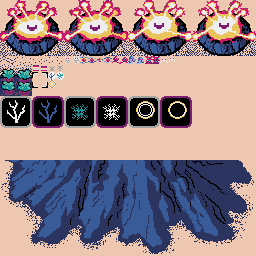
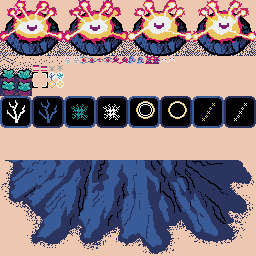
TD: implemented star weapon

Changed region(s): [[0.0, 0.375, 1.0, 0.5], [0.2188, 0.3125, 0.25, 0.3438]]

diff --git a/td/state/weapons.py b/td/state/weapons.py
@@ -6,10 +6,14 @@ from pyke_pyxel import Coord, log_debug, log_error
 from pyke_pyxel.cell_auto.matrix import Matrix
 from pyke_pyxel.signals import Signals
 from pyke_pyxel.sprite import Sprite
+from td.enemies.enemy import Enemy
 from td.weapons.bolt import Bolt
+from td.weapons.star import Star
 from td.weapons.fungus import Fungus
 from td.weapons.meteor import Meteor
 from td.weapons.weapon import Weapon
+
+from .enemies import GameEnemies
 
 class WeaponLocation:
     def __init__(self, id: str, position: Coord, orientation: str) -> None:
@@ -75,8 +79,10 @@ class GameWeapons:
 
         self.active: list[Weapon] = []
 
-    def cost_of(self, type: str) -> int:
+    def cost_of(self, type: str) -> float:
         match type:
+            case "star":
+                return 1
             case "bolt":
                 return 1
             case "fungus":
@@ -87,7 +93,7 @@ class GameWeapons:
                 log_error(f"weapons.cost_of() invalid type {type}")
                 return 10
 
-    def update(self, field: Matrix):
+    def update(self, field: Matrix, enemies: GameEnemies):
         to_remove: list[Weapon] = []
         for w in self.active:
             if _should_skip_update(w):
@@ -109,6 +115,8 @@ class GameWeapons:
         for l in self._locations:
             if l._type and ((now - l._previous_launch_time) > l.cooldown):
                 match l._type:
+                    case "star":
+                        self._launch_star(l, field, enemies)
                     case "bolt":
                         self._launch_bolt(l, field)
                     case "fungus":
@@ -129,7 +137,7 @@ class GameWeapons:
             return active
         
         log_debug("weapons.launch_fungus")
-        
+
         fungus = Fungus(location.id, location.position)
         fungus.launch(field)
 
@@ -146,6 +154,31 @@ class GameWeapons:
         location._previous_launch_time = time.time()
         location._active = meteor
         self.active.append(meteor)
+
+    def _launch_star(self, location: WeaponLocation, field: Matrix, enemies: GameEnemies):
+        position = location.position
+        to_enemy = enemies.closest_to(position)
+        
+        if to_enemy:
+            to = to_enemy._sprite.position
+            to = to.clone_by(0, 20) # TODO - this is not great, just guessing 20 px below
+            log_debug(f"weapons._launch_star at {to_enemy._sprite.name} {to}")
+        else:
+            to_x = 0
+            if position.x >= 160: # right
+                to_x = position.x + random.randint(10, 80)
+            else:
+                to_x = position.x - random.randint(10, 80)
+            to_y = position.y - random.randint(80, 120)
+            to = Coord.with_xy(to_x, to_y)
+            log_debug(f"weapons._launch_star random {to}")
+
+        star = Star(location.id, location.position, to)
+        star.launch(field)
+
+        location._previous_launch_time = time.time()
+        location._active = star
+        self.active.append(star)
 
     def _launch_bolt(self, location: WeaponLocation, field: Matrix):
         log_debug("weapons._launch_bolt")

diff --git a/td/weapons/star.py b/td/weapons/star.py
@@ -1,0 +1,69 @@
+from typing import Optional
+import random
+
+from pyke_pyxel import COLOURS, Coord, DIRECTION, log_error
+from pyke_pyxel.cell_auto.matrix import Matrix, Cell
+
+from .weapon import Weapon
+
+class Star(Weapon):
+
+    def __init__(self, location_id: str, position: Coord, to: Coord) -> None:
+        super().__init__("star", location_id, position, power=10, speed=10, cooldown=0.5)
+
+        self._from = position
+        self._to = to
+
+    def launch(self, field: Matrix):
+        self.line = field.cells_in_line(self._from, self._to)
+        self.line_index = 0
+
+    def update(self, field: Matrix):
+        for c in self.cells:
+                c.reset()
+
+        if self.line_index < (len(self.line)-1):
+            center = self.line[self.line_index]
+            self._draw_star(center, field)
+            self.line_index += 1
+        else:
+            self.cells = []
+            # print(f"STAR REACHED END AT {self._to}")
+
+    def _draw_star(self, center: Cell, field: Matrix):
+        self.cells = []
+
+        x, y = center.x, center.y
+        if center.x % 2 == 0:
+            # N
+            self._add_star_cell(field.cell_at(x, (y-1)))
+            self._add_star_cell(field.cell_at(x, (y-2)))
+            # S
+            self._add_star_cell(field.cell_at(x, (y+1)))
+            self._add_star_cell(field.cell_at(x, (y+2)))
+            # E
+            self._add_star_cell(field.cell_at((x+1), y))
+            self._add_star_cell(field.cell_at((x+2), y))
+            # W
+            self._add_star_cell(field.cell_at((x-1), y))
+            self._add_star_cell(field.cell_at((x-2), y))
+        else:
+            # NE
+            self._add_star_cell(field.cell_at(x+1, (y-1)))
+            self._add_star_cell(field.cell_at(x+2, (y-2)))
+            # NW
+            self._add_star_cell(field.cell_at(x-1, (y-1)))
+            self._add_star_cell(field.cell_at(x-2, (y-2)))
+            # SE
+            self._add_star_cell(field.cell_at(x+1, (y+1)))
+            self._add_star_cell(field.cell_at(x+2, (y+2)))
+            # SW
+            self._add_star_cell(field.cell_at(x-1, (y+1)))
+            self._add_star_cell(field.cell_at(x-2, (y+2)))
+
+    def _add_star_cell(self, c:  Cell|None):
+        if c:
+            c.type = self.type
+            c.colour = COLOURS.YELLOW
+            c.power = self.power
+            self.cells.append(c)

diff --git a/td/ui/weapon_select.py b/td/ui/weapon_select.py
@@ -7,6 +7,11 @@ from pyke_pyxel.signals import Signals
 
 @dataclass
 class buttons:
+    star = Button("star", 
+                up_frame=Coord(25,13), 
+                down_frame=Coord(29,13),
+                col_tile_count=4, 
+                row_tile_count=4)
     bolt = Button("bolt", 
                 up_frame=Coord(1,13), 
                 down_frame=Coord(5,13),
@@ -26,21 +31,27 @@ class buttons:
 BUTTONS = buttons()
 
 def display(game: Game):  
-    BUTTONS.bolt.set_position(Coord(12, 36))
-    BUTTONS.fungus.set_position(Coord(17, 36))
-    BUTTONS.meteor.set_position(Coord(22, 36))
+    BUTTONS.star.set_position(Coord(12, 36))
+    BUTTONS.bolt.set_position(Coord(17, 36))
+    BUTTONS.fungus.set_position(Coord(22, 36))
+    BUTTONS.meteor.set_position(Coord(27, 36))
 
+    game.hud.add_button(BUTTONS.star)
     game.hud.add_button(BUTTONS.bolt)
     game.hud.add_button(BUTTONS.fungus)
     game.hud.add_button(BUTTONS.meteor)
 
 def hide(game: Game):
+    game.hud.remove_button(BUTTONS.star)
     game.hud.remove_button(BUTTONS.bolt)
     game.hud.remove_button(BUTTONS.fungus)
     game.hud.remove_button(BUTTONS.meteor)
 
 def mouse_down(x: int, y: int) -> bool:
-    if BUTTONS.bolt.contains(x, y):
+    if BUTTONS.star.contains(x, y):
+        BUTTONS.star.push_down()
+        return True
+    elif BUTTONS.bolt.contains(x, y):
         BUTTONS.bolt.push_down()
         return True # TODO - should this rather be done through game_loop.update_queue?
     elif BUTTONS.fungus.contains(x, y):
@@ -53,7 +64,9 @@ def mouse_down(x: int, y: int) -> bool:
         return False
     
 def mouse_move(x: int, y: int):
-    if BUTTONS.bolt.is_down and not BUTTONS.bolt.contains(x, y):
+    if BUTTONS.star.is_down and not BUTTONS.star.contains(x, y):
+        BUTTONS.star.pop_up()
+    elif BUTTONS.bolt.is_down and not BUTTONS.bolt.contains(x, y):
         BUTTONS.bolt.pop_up()
     elif BUTTONS.fungus.is_down and not BUTTONS.fungus.contains(x, y):
         BUTTONS.fungus.pop_up()
@@ -61,7 +74,10 @@ def mouse_move(x: int, y: int):
         BUTTONS.meteor.pop_up()
 
 def mouse_up():
-    if BUTTONS.bolt.is_down:
+    if BUTTONS.star.is_down:
+        BUTTONS.star.pop_up()
+        Signals.send("ui_weapon_selected", "star")
+    elif BUTTONS.bolt.is_down:
         BUTTONS.bolt.pop_up()
         Signals.send("ui_weapon_selected", "bolt")
     elif BUTTONS.fungus.is_down:

diff --git a/td/enemies/enemy.py b/td/enemies/enemy.py
@@ -46,7 +46,7 @@ class Enemy:
             self._sprite.position.move_by(to[0], to[1])
         
         if len(field_cells) > 0:
-            #current_power = self.power
+            # current_power = self.power
             for c in field_cells:
                 if self.power > c.power:
                     self.power -= c.power
@@ -57,7 +57,8 @@ class Enemy:
                 else:
                     c.power -= self.power
                     self.power = 0
-            #print(f"Enemy.update({self}) lost:{(current_power - self.power)} remaining:{self.power}")
+            # if not self.power == current_power:
+            #    print(f"Enemy.update({self}) lost:{(current_power - self.power)} remaining:{self.power}")
         if self.power <= 0:
             return -1 # killed
         else:

diff --git a/td/state/__init__.py b/td/state/__init__.py
@@ -29,7 +29,7 @@ class GameState:
         self._timestamp = time.time()
         self._running_time = 0
         
-        self.enemies._set_level(self.level)
+        self.enemies.set_level(self.level)
 
         self.weapons.clear_all()
         self.enemies.clear_all()
@@ -50,10 +50,10 @@ class GameState:
         if self.level < minutes:
             self.level = minutes
             print(f"STATE.update() PROGRESS level:{self.level}")
-            self.enemies._set_level(self.level)
+            self.enemies.set_level(self.level)
 
         self.enemies.update(game)
-        self.weapons.update(game.matrix)
+        self.weapons.update(game.matrix, self.enemies)
 
     def acquire_weapon(self, type: str) -> bool:
         cost = self.weapons.cost_of(type)

diff --git a/td/state/enemies.py b/td/state/enemies.py
@@ -84,10 +84,17 @@ class GameEnemies:
                 case _:
                     log_error(f"enemies.update invalid enemy type:{type}")
 
+    def closest_to(self, position: Coord) -> Enemy|None:
+        if len(self._enemies) == 0:
+            return None
+
+        closest = min(self._enemies, key=lambda enemy: enemy._sprite.position.distance_to(position))
+        return closest
+
     def clear_all(self):
         self._enemies.clear()
 
-    def _set_level(self, id: int):
+    def set_level(self, id: int):
         self._level.activate(id)
 
     def _random_location(self) -> Coord:

diff --git a/pyke_pyxel/_base_types.py b/pyke_pyxel/_base_types.py
@@ -241,6 +241,15 @@ class Coord:
             collide_y + h > (sprite_y + tolerance)
         )
 
+    def distance_to(self, coord: "Coord") -> float:
+        """Return the distance between this Coord and the provided Coord"""
+        delta_x = self._x - coord._x
+        delta_y = self._y - coord._y
+        
+        # Apply the distance formula
+        distance = math.sqrt(delta_x**2 + delta_y**2)
+        return distance
+
     @property
     def x(self) -> int:
         """Top-left pixel x coordinate for this tile."""

diff --git a/td/weapons/bolt.py b/td/weapons/bolt.py
@@ -9,9 +9,9 @@ from .weapon import Weapon
 class Bolt(Weapon):
 
     def __init__(self, location_id: str, position: Coord, orientation: str) -> None:
-        super().__init__("bolt", location_id, position, power=random.randint(100, 200), speed=10, cooldown=6)
+        super().__init__("bolt", location_id, position, power=150, speed=10, cooldown=6)
 
-        self.cell_count = 5
+        self.cell_count = 5 # POWER UP - increase width of bolt
 
         self.colour: int = COLOURS.WHITE
         self.orientation = orientation

diff --git a/td/ui/__init__.py b/td/ui/__init__.py
@@ -76,6 +76,8 @@ class UI:
             game.hud.remove_sprite(location.marker)
 
         match name:
+            case "star":
+                frame = Coord(8, 11)
             case "bolt":
                 frame = Coord(7, 10)
             case "fungus":

diff --git a/td/weapons/meteor.py b/td/weapons/meteor.py
@@ -89,6 +89,7 @@ class Meteor(Weapon):
 
     def _add_star_cell(self, c:  Cell|None):
         if c:
+            c.type = self.type
             c.colour = COLOURS.RED
             c.power = self.power * 2
             self.cells.append(c)
